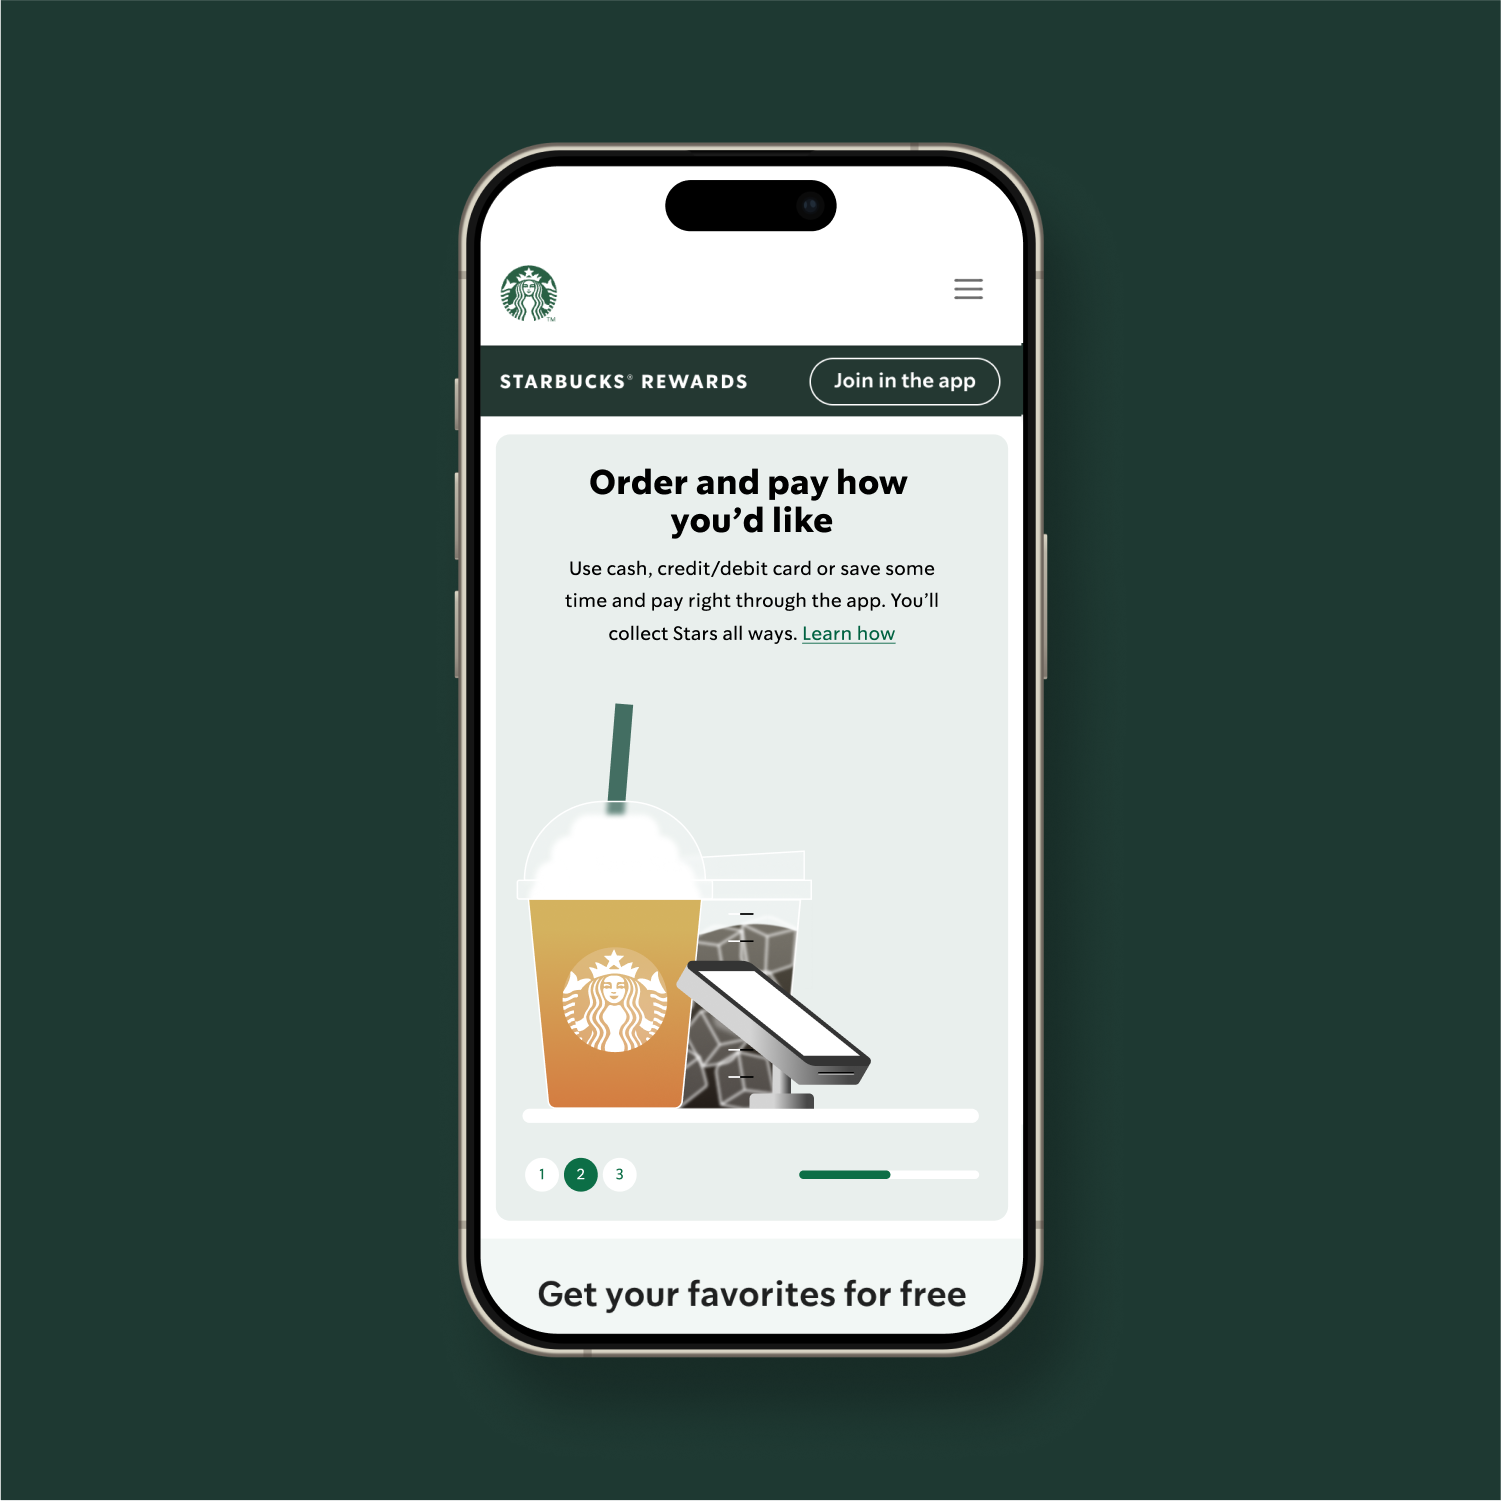
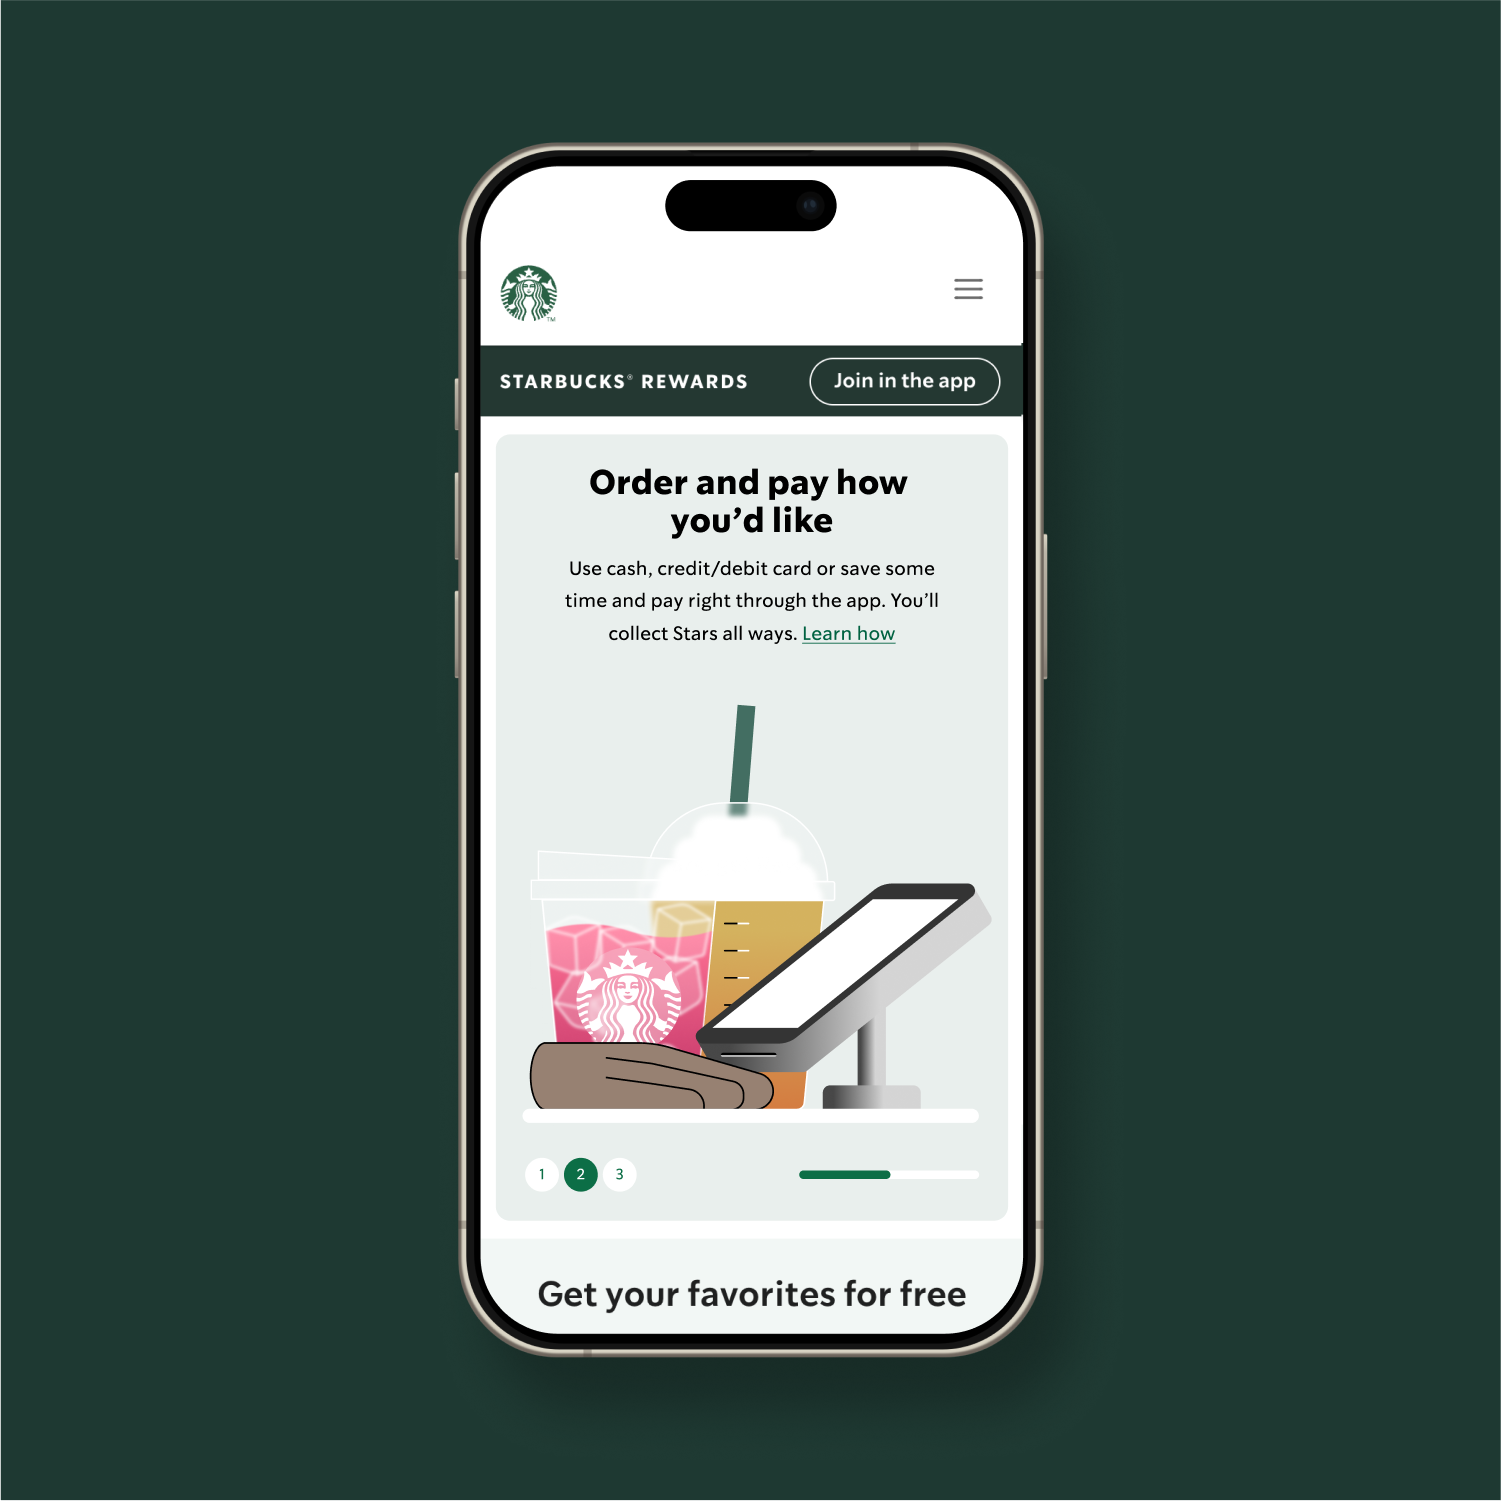
v12

Changed region(s): [[0.3371, 0.5823, 0.6742, 0.7662], [0.4597, 0.4597, 0.521, 0.5516], [0.3984, 0.4597, 0.429, 0.5516]]

diff --git a/StarbucksIllo.html b/StarbucksIllo.html
@@ -136,9 +136,9 @@
         <div class="smMargin"></div>
         <h1>Pain points:</h1>
         <div class="smMargin"></div>
-        <h1>The existing site lacked compelling value propositions to encourage users to join Starbucks’ membership for rewards. I found it easy to scroll past due to its dry presentation.</h1>
+        <h1>The existing Starbuck reward website lacked compelling value propositions to encourage users to join Starbucks’ membership for rewards. I found it easy to scroll past due to its dry presentation.</h1>
         <div class="lgMargin"></div>
-        <h1 class="lgTxt" style="text-align: center;">Let's add fun visuals to boost site value.</h1>
+        <h1 class="lgTxt" style="text-align: center;">Let's add fun visuals to boost Rewards website value.</h1>
         <div class="lgMargin"></div>
         <div class="flexBox" style="gap: var(--smMargin); align-items: start;">
             <div class="half">
@@ -166,7 +166,7 @@
             </div>
             <div class="half">
                 <div class="clipping">
-                    <img src="Starbucks4.png" width="100%">
+                    <img src="Starbucks3.png" width="100%">
                 </div>
             </div>
         </div>
